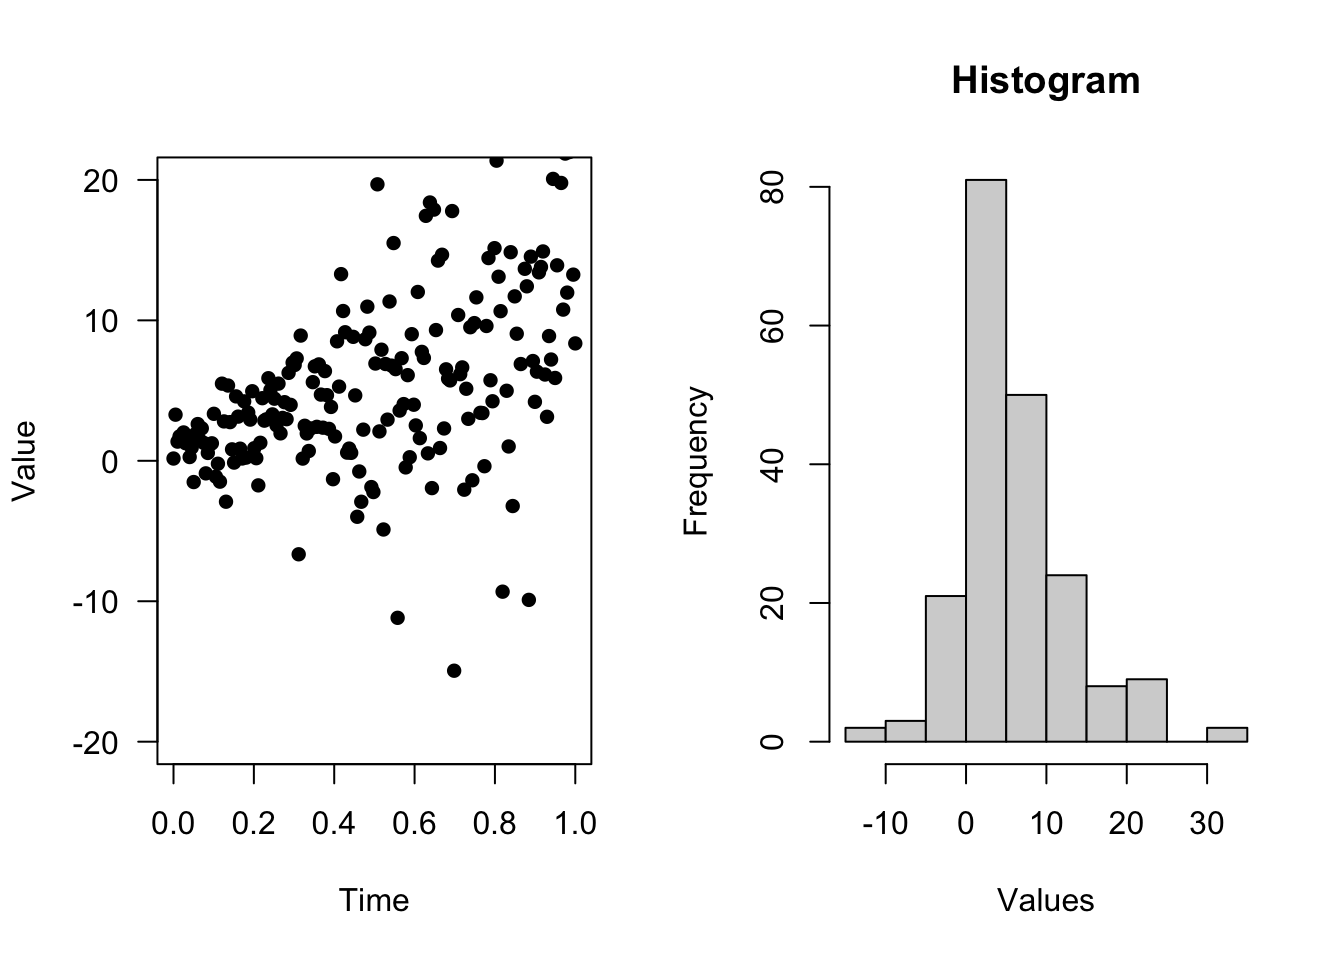
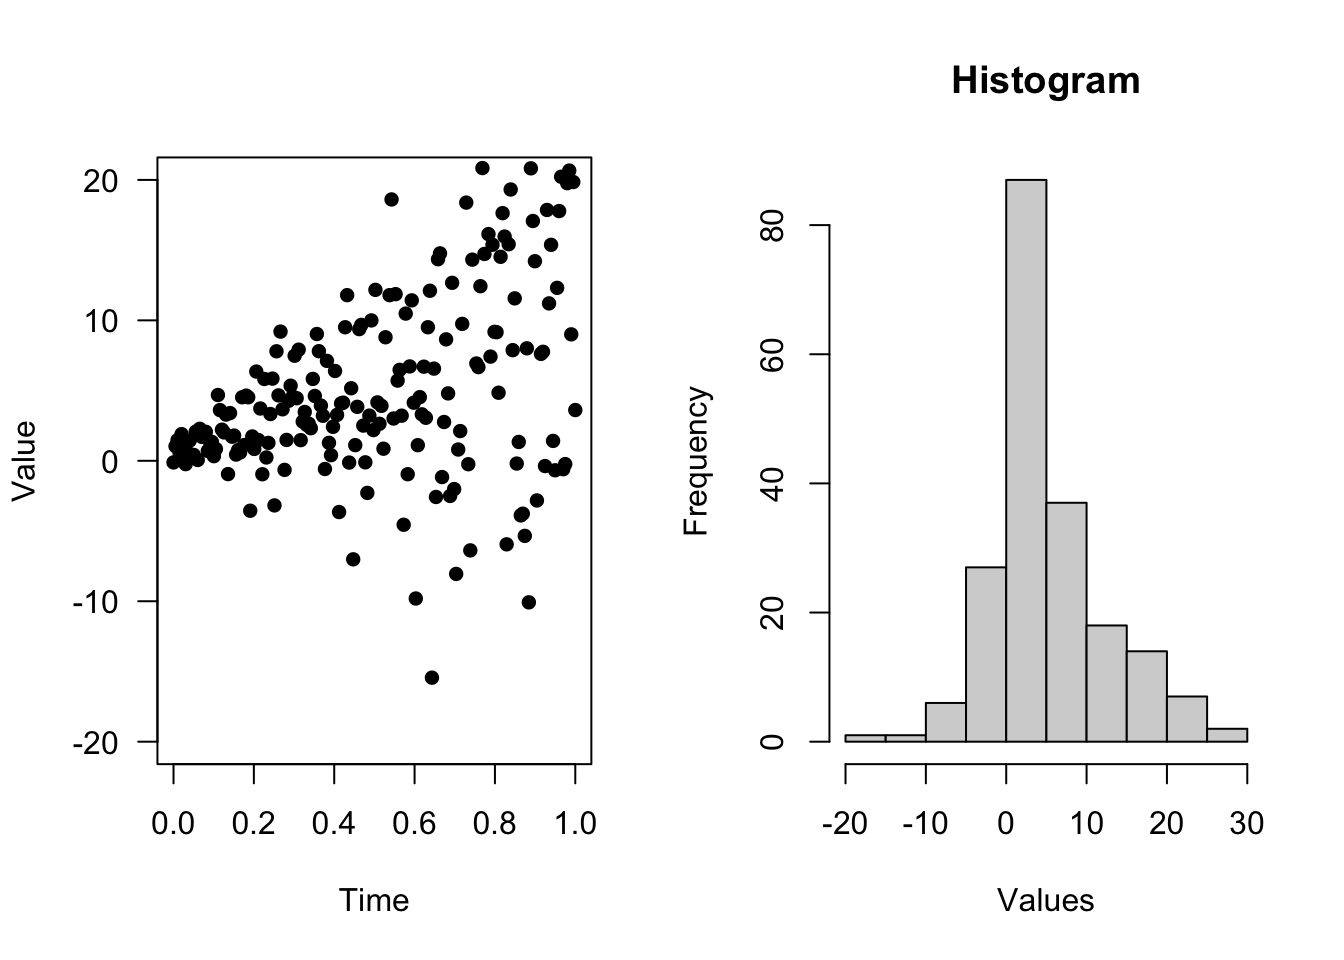
Rebuild before re-submit

diff --git a/docs/reference/new_function2.html b/docs/reference/new_function2.html
@@ -167,7 +167,7 @@
     <tr>
       <th>quote_type</th>
       <td><p>character, whether <code>body</code> is unquoted, quoted,
-or a <code><a href='https://rlang.r-lib.org/reference/nse-defuse.html'>quo</a></code> object</p></td>
+or a 'quo' object (from 'rlang' package)</p></td>
     </tr>
     <tr>
       <th>quasi_env</th>
@@ -193,7 +193,7 @@ For arguments with no default values, or quoted defaults, use
 function like <code>function(a){...}</code>. See examples for more details.</p>
     <h2 class="hasAnchor" id="see-also"><a class="anchor" href="#see-also"></a>See also</h2>
 
-    <div class='dont-index'><p><code><a href='https://rlang.r-lib.org/reference/nse-defuse.html'>quo</a></code>, <code><a href='https://rlang.r-lib.org/reference/new_function.html'>new_function</a></code></p></div>
+    <div class='dont-index'><p><code><a href='https://rlang.r-lib.org/reference/new_function.html'>new_function</a></code></p></div>
 
     <h2 class="hasAnchor" id="examples"><a class="anchor" href="#examples"></a>Examples</h2>
     <pre class="examples"><div class='input'>
@@ -210,7 +210,7 @@ function like <code>function(a){...}</code>. See examples for more details.</p>
 #&gt; {
 #&gt;     print(a + 1:10)
 #&gt; }
-#&gt; &lt;environment: 0x7fd35767dd58&gt;</div><div class='input'>
+#&gt; &lt;environment: 0x7ff8e2ba6110&gt;</div><div class='input'>
 <span class='fu'>f2</span>(<span class='fl'>0</span>)</div><div class='output co'>#&gt;  [1]  1  2  3  4  5  6  7  8  9 10</div><div class='input'>
 <span class='no'>x</span> <span class='kw'>&lt;-</span> <span class='fl'>20</span>:<span class='fl'>23</span>
 <span class='fu'>f2</span>(<span class='fl'>0</span>)  <span class='co'># result doesn't change as f2 doesn't depend on x anymore</span></div><div class='output co'>#&gt;  [1]  1  2  3  4  5  6  7  8  9 10</div><div class='input'>
@@ -222,20 +222,20 @@ function like <code>function(a){...}</code>. See examples for more details.</p>
 <span class='fu'>new_function2</span>(<span class='fu'><a href='https://rdrr.io/r/base/list.html'>list</a></span>(<span class='kw'>a</span> <span class='kw'>=</span> <span class='no'>default</span>))   <span class='co'># function (a = 123){}</span></div><div class='output co'>#&gt; function (a = 123) 
 #&gt; {
 #&gt; }
-#&gt; &lt;environment: 0x7fd359950fe8&gt;</div><div class='input'>
+#&gt; &lt;environment: 0x7ff8e5d57b58&gt;</div><div class='input'>
 <span class='co'># default with values unevaluated</span>
 <span class='fu'>new_function2</span>(<span class='fu'><a href='https://rdrr.io/r/base/list.html'>list</a></span>(<span class='kw'>a</span> <span class='kw'>=</span> <span class='fu'><a href='https://rdrr.io/r/base/substitute.html'>quote</a></span>(<span class='no'>default</span>)))   <span class='co'># function (a = default){}</span></div><div class='output co'>#&gt; function (a = default) 
 #&gt; {
 #&gt; }
-#&gt; &lt;environment: 0x7fd35948e2b0&gt;</div><div class='input'><span class='fu'>new_function2</span>(<span class='fu'><a href='https://rdrr.io/r/base/list.html'>alist</a></span>(<span class='kw'>a</span> <span class='kw'>=</span> <span class='no'>default</span>))</div><div class='output co'>#&gt; function (a = default) 
+#&gt; &lt;environment: 0x7ff8f5bf3ee8&gt;</div><div class='input'><span class='fu'>new_function2</span>(<span class='fu'><a href='https://rdrr.io/r/base/list.html'>alist</a></span>(<span class='kw'>a</span> <span class='kw'>=</span> <span class='no'>default</span>))</div><div class='output co'>#&gt; function (a = default) 
 #&gt; {
 #&gt; }
-#&gt; &lt;environment: 0x7fd3599191a8&gt;</div><div class='input'>
+#&gt; &lt;environment: 0x7ff8f469bcf0&gt;</div><div class='input'>
 <span class='co'># missing default</span>
 <span class='fu'>new_function2</span>(<span class='fu'><a href='https://rdrr.io/r/base/list.html'>alist</a></span>(<span class='kw'>a</span> <span class='kw'>=</span> ))    <span class='co'># function (a){}</span></div><div class='output co'>#&gt; function (a) 
 #&gt; {
 #&gt; }
-#&gt; &lt;environment: 0x7fd3593e0e38&gt;</div><div class='input'>
+#&gt; &lt;environment: 0x7ff8f7e97bf0&gt;</div><div class='input'>
 
 </div></pre>
   </div>

diff --git a/docs/reference/shared_finalizer.html b/docs/reference/shared_finalizer.html
@@ -306,16 +306,16 @@ instances, <code>fin</code> accepts no argument.</p>
 <span class='no'>e2</span>$<span class='no'>valid</span> <span class='kw'>&lt;-</span> <span class='kw'>function</span>(){ <span class='no'>file_exists</span> }
 
 <span class='fu'><a href='https://rdrr.io/r/base/reg.finalizer.html'>reg.finalizer</a></span>(<span class='no'>e1</span>, <span class='no'>clear_files</span>)</div><div class='output co'>#&gt; NULL</div><div class='input'><span class='fu'><a href='https://rdrr.io/r/base/reg.finalizer.html'>reg.finalizer</a></span>(<span class='no'>e2</span>, <span class='no'>clear_files</span>)</div><div class='output co'>#&gt; NULL</div><div class='input'><span class='fu'><a href='https://rdrr.io/r/base/gc.html'>gc</a></span>()</div><div class='output co'>#&gt;           used (Mb) gc trigger (Mb) limit (Mb) max used  (Mb)
-#&gt; Ncells 1031277 55.1    1764608 94.3         NA  1764608  94.3
-#&gt; Vcells 1955577 15.0   11861156 90.5      16384 23166197 176.8</div><div class='input'><span class='no'>file_exists</span></div><div class='output co'>#&gt; [1] TRUE</div><div class='input'>
+#&gt; Ncells 1037231 55.4    1768024 94.5         NA  1768024  94.5
+#&gt; Vcells 1965439 15.0   11869341 90.6      16384 23182273 176.9</div><div class='input'><span class='no'>file_exists</span></div><div class='output co'>#&gt; [1] TRUE</div><div class='input'>
 <span class='co'># removing e1 will invalidate e2</span>
 <span class='fu'><a href='https://rdrr.io/r/base/rm.html'>rm</a></span>(<span class='no'>e1</span>); <span class='fu'><a href='https://rdrr.io/r/base/gc.html'>gc</a></span>()</div><div class='output co'>#&gt; [1] "Clean some shared files"</div><div class='output co'>#&gt;           used (Mb) gc trigger (Mb) limit (Mb) max used  (Mb)
-#&gt; Ncells 1031283 55.1    1764608 94.3         NA  1764608  94.3
-#&gt; Vcells 1955621 15.0   11861156 90.5      16384 23166197 176.8</div><div class='input'><span class='no'>e2</span>$<span class='fu'>valid</span>()    <span class='co'># FALSE</span></div><div class='output co'>#&gt; [1] FALSE</div><div class='input'>
+#&gt; Ncells 1037237 55.4    1768024 94.5         NA  1768024  94.5
+#&gt; Vcells 1965483 15.0   11869341 90.6      16384 23182273 176.9</div><div class='input'><span class='no'>e2</span>$<span class='fu'>valid</span>()    <span class='co'># FALSE</span></div><div class='output co'>#&gt; [1] FALSE</div><div class='input'>
 <span class='co'># Clean-ups</span>
 <span class='fu'><a href='https://rdrr.io/r/base/rm.html'>rm</a></span>(<span class='no'>e2</span>); <span class='fu'><a href='https://rdrr.io/r/base/gc.html'>gc</a></span>()</div><div class='output co'>#&gt; [1] "Clean some shared files"</div><div class='output co'>#&gt;           used (Mb) gc trigger (Mb) limit (Mb) max used  (Mb)
-#&gt; Ncells 1031304 55.1    1764608 94.3         NA  1764608  94.3
-#&gt; Vcells 1955635 15.0   11861156 90.5      16384 23166197 176.8</div><div class='input'>
+#&gt; Ncells 1037258 55.4    1768024 94.5         NA  1768024  94.5
+#&gt; Vcells 1965497 15.0   11869341 90.6      16384 23182273 176.9</div><div class='input'>
 </div></pre>
   </div>
   <div class="col-md-3 hidden-xs hidden-sm" id="pkgdown-sidebar">

diff --git a/docs/reference/collapse.html b/docs/reference/collapse.html
@@ -196,8 +196,8 @@ collapsing dimensions</p>
   }
 )</div><div class='output co'>#&gt; Unit: microseconds
 #&gt;     expr     min      lq    mean  median      uq     max neval
-#&gt;   result 573.018 573.018 573.018 573.018 573.018 573.018     1
-#&gt;  compare 198.216 198.216 198.216 198.216 198.216 198.216     1</div><div class='input'>
+#&gt;   result 630.978 630.978 630.978 630.978 630.978 630.978     1
+#&gt;  compare 221.371 221.371 221.371 221.371 221.371 221.371     1</div><div class='input'>
 <span class='co'># large data big difference</span>
 <span class='no'>x</span> <span class='kw'>=</span> <span class='fu'><a href='https://rdrr.io/r/base/array.html'>array</a></span>(<span class='fu'><a href='https://rdrr.io/r/stats/Normal.html'>rnorm</a></span>(<span class='fu'><a href='https://rdrr.io/r/base/prod.html'>prod</a></span>(<span class='fl'>300</span>,<span class='fl'>200</span>,<span class='fl'>105</span>)), <span class='fu'><a href='https://rdrr.io/r/base/c.html'>c</a></span>(<span class='fl'>300</span>,<span class='fl'>200</span>,<span class='fl'>105</span>,<span class='fl'>1</span>))
 <span class='kw pkg'>microbenchmark</span><span class='kw ns'>::</span><span class='fu'><a href='https://rdrr.io/pkg/microbenchmark/man/microbenchmark.html'>microbenchmark</a></span>(
@@ -206,9 +206,9 @@ collapsing dimensions</p>
   <span class='kw'>times</span> <span class='kw'>=</span> <span class='fl'>1L</span> , <span class='kw'>check</span> <span class='kw'>=</span> <span class='kw'>function</span>(<span class='no'>v</span>){
     <span class='fu'><a href='https://rdrr.io/r/base/Extremes.html'>max</a></span>(<span class='fu'><a href='https://rdrr.io/r/base/MathFun.html'>abs</a></span>(<span class='fu'><a href='https://rdrr.io/r/base/range.html'>range</a></span>(<span class='fu'><a href='https://rdrr.io/r/base/do.call.html'>do.call</a></span>(<span class='st'>'-'</span>, <span class='no'>v</span>)))) <span class='kw'>&lt;</span> <span class='fl'>1e-10</span>
   })</div><div class='output co'>#&gt; Unit: milliseconds
-#&gt;     expr      min       lq     mean   median       uq      max neval
-#&gt;   result 247.3830 247.3830 247.3830 247.3830 247.3830 247.3830     1
-#&gt;  compare 345.9405 345.9405 345.9405 345.9405 345.9405 345.9405     1</div><div class='input'>
+#&gt;     expr       min        lq      mean    median        uq       max neval
+#&gt;   result  48.01828  48.01828  48.01828  48.01828  48.01828  48.01828     1
+#&gt;  compare 182.13679 182.13679 182.13679 182.13679 182.13679 182.13679     1</div><div class='input'>
 </div></pre>
   </div>
   <div class="col-md-3 hidden-xs hidden-sm" id="pkgdown-sidebar">

diff --git a/docs/reference/mask_function2.html b/docs/reference/mask_function2.html
@@ -175,7 +175,7 @@ environment.</p>
 <span class='fu'>f1</span>()   <span class='co'># 124</span></div><div class='output co'>#&gt; [1] 124</div><div class='input'>
 <span class='no'>f2</span> <span class='kw'>&lt;-</span> <span class='fu'>mask_function2</span>(<span class='no'>f1</span>, <span class='kw'>a</span> <span class='kw'>=</span> <span class='fl'>1</span>)
 <span class='fu'>f2</span>()   <span class='co'># a is masked with value 1, return 2</span></div><div class='output co'>#&gt; [1] 2</div><div class='input'>
-<span class='fu'><a href='https://rdrr.io/r/base/environment.html'>environment</a></span>(<span class='no'>f1</span>)  <span class='co'># global env</span></div><div class='output co'>#&gt; &lt;environment: 0x7fd34734a428&gt;</div><div class='input'><span class='fu'><a href='https://rdrr.io/r/base/environment.html'>environment</a></span>(<span class='no'>f2</span>)  <span class='co'># masked env</span></div><div class='output co'>#&gt; &lt;environment: 0x7fd34670be30&gt;</div><div class='input'>
+<span class='fu'><a href='https://rdrr.io/r/base/environment.html'>environment</a></span>(<span class='no'>f1</span>)  <span class='co'># global env</span></div><div class='output co'>#&gt; &lt;environment: 0x7ff8e6910f58&gt;</div><div class='input'><span class='fu'><a href='https://rdrr.io/r/base/environment.html'>environment</a></span>(<span class='no'>f2</span>)  <span class='co'># masked env</span></div><div class='output co'>#&gt; &lt;environment: 0x7ff8f45ca550&gt;</div><div class='input'>
 <span class='no'>env</span> <span class='kw'>&lt;-</span> <span class='fu'><a href='https://rdrr.io/r/base/environment.html'>environment</a></span>(<span class='no'>f2</span>)
 <span class='fu'><a href='https://rdrr.io/r/base/identical.html'>identical</a></span>(<span class='fu'><a href='https://rdrr.io/r/base/environment.html'>parent.env</a></span>(<span class='no'>env</span>), <span class='fu'><a href='https://rdrr.io/r/base/environment.html'>environment</a></span>(<span class='no'>f1</span>))  <span class='co'># true</span></div><div class='output co'>#&gt; [1] TRUE</div><div class='input'><span class='no'>env</span>$<span class='no'>a</span>  <span class='co'># masked variables: a=1</span></div><div class='output co'>#&gt; [1] 1</div><div class='input'>
 </div></pre>

diff --git a/docs/articles/r_expr_addons.html b/docs/articles/r_expr_addons.html
@@ -132,7 +132,7 @@
 <span class="co">#&gt; $aa</span>
 <span class="co">#&gt; [1] 1</span>
 <span class="co">#&gt;    user  system elapsed </span>
-<span class="co">#&gt;   0.001   0.000   0.000</span></pre></body></html></div>
+<span class="co">#&gt;       0       0       0</span></pre></body></html></div>
 </div>
 <div id="javascript-style-of-creating-functions" class="section level3">
 <h3 class="hasAnchor">
@@ -254,12 +254,12 @@ li.map((el, ii) => {
   ) <span class="kw">%&gt;%</span>
   <span class="fu"><a href="../reference/no_op.html">no_op</a></span>(<span class="no">hist</span>, <span class="kw">xlab</span> <span class="kw">=</span> <span class="st">'Values'</span>, <span class="kw">main</span> <span class="kw">=</span> <span class="st">'Histogram'</span>) <span class="kw">-&gt;</span>
   <span class="no">result</span>
-<span class="co">#&gt;    Min. 1st Qu.  Median    Mean 3rd Qu.    Max. </span>
-<span class="co">#&gt; -14.946   1.332   4.441   5.870   9.024  34.465</span></pre></body></html></div>
+<span class="co">#&gt;     Min.  1st Qu.   Median     Mean  3rd Qu.     Max. </span>
+<span class="co">#&gt; -15.4416   0.8575   3.6121   5.3036   9.0595  27.7989</span></pre></body></html></div>
 <p><img src="r_expr_addons_files/figure-html/unnamed-chunk-15-1.png" width="672"></p>
 <div class="sourceCode" id="cb15"><html><body><pre class="r">
 <span class="fu"><a href="https://rdrr.io/r/utils/str.html">str</a></span>(<span class="no">result</span>)
-<span class="co">#&gt;  num [1:200] 0.162 3.284 1.366 1.739 1.419 ...</span></pre></body></html></div>
+<span class="co">#&gt;  num [1:200] -0.116 1.038 1.467 0.567 1.898 ...</span></pre></body></html></div>
 </div>
 <div id="do_aggregate" class="section level4">
 <h4 class="hasAnchor">

diff --git a/docs/reference/grapes-equals-greater-than-grapes.html b/docs/reference/grapes-equals-greater-than-grapes.html
@@ -169,7 +169,7 @@ the function body</p>
 #&gt; {
 #&gt;     print(a)
 #&gt; }
-#&gt; &lt;environment: 0x7fd359637210&gt;</div><div class='input'>
+#&gt; &lt;environment: 0x7ff8f5daae68&gt;</div><div class='input'>
 <span class='co'># Informal arguments</span>
 <span class='fu'><a href='https://rdrr.io/r/base/list.html'>list</a></span>(<span class='kw'>a</span><span class='kw'>=</span>) <span class='kw'>%=&gt;%</span> {
   <span class='fu'><a href='https://rdrr.io/r/base/print.html'>print</a></span>(<span class='no'>a</span>)
@@ -177,7 +177,7 @@ the function body</p>
 #&gt; {
 #&gt;     print(a)
 #&gt; }
-#&gt; &lt;environment: 0x7fd359637210&gt;</div><div class='input'>
+#&gt; &lt;environment: 0x7ff8f5daae68&gt;</div><div class='input'>
 <span class='co'># Multiple inputs</span>
 <span class='fu'><a href='https://rdrr.io/r/base/c.html'>c</a></span>(<span class='no'>a</span>, <span class='kw'>b</span> <span class='kw'>=</span> <span class='fl'>2</span>, <span class='no'>...</span>) <span class='kw'>%=&gt;%</span> {
   <span class='fu'><a href='https://rdrr.io/r/base/print.html'>print</a></span>(<span class='fu'><a href='https://rdrr.io/r/base/c.html'>c</a></span>(<span class='no'>a</span>, <span class='no'>b</span>, <span class='no'>...</span>))
@@ -185,7 +185,7 @@ the function body</p>
 #&gt; {
 #&gt;     print(c(a, b, ...))
 #&gt; }
-#&gt; &lt;environment: 0x7fd359637210&gt;</div><div class='input'>
+#&gt; &lt;environment: 0x7ff8f5daae68&gt;</div><div class='input'>
 <span class='co'># ----- JavaScript style of forEach -----</span>
 <span class='co'># ### Equivalent JavaScript Code:</span>
 <span class='co'># LETTERS.forEach((el, ii) =&gt; {</span>

diff --git a/docs/reference/time_delta.html b/docs/reference/time_delta.html
@@ -169,7 +169,7 @@
 <span class='fu'><a href='https://rdrr.io/r/base/Sys.sleep.html'>Sys.sleep</a></span>(<span class='fl'>0.3</span>)
 <span class='no'>b</span> <span class='kw'>=</span> <span class='fu'><a href='https://rdrr.io/r/base/Sys.time.html'>Sys.time</a></span>()
 
-<span class='fu'>time_delta</span>(<span class='no'>a</span>, <span class='no'>b</span>) <span class='co'># In seconds, around 0.3</span></div><div class='output co'>#&gt; [1] 0.3064539</div><div class='input'><span class='fu'>time_delta</span>(<span class='no'>a</span>, <span class='no'>b</span>, <span class='st'>'mins'</span>) <span class='co'># in minutes, around 0.005</span></div><div class='output co'>#&gt; [1] 0.005107566</div><div class='input'>
+<span class='fu'>time_delta</span>(<span class='no'>a</span>, <span class='no'>b</span>) <span class='co'># In seconds, around 0.3</span></div><div class='output co'>#&gt; [1] 0.306694</div><div class='input'><span class='fu'>time_delta</span>(<span class='no'>a</span>, <span class='no'>b</span>, <span class='st'>'mins'</span>) <span class='co'># in minutes, around 0.005</span></div><div class='output co'>#&gt; [1] 0.005111567</div><div class='input'>
 </div></pre>
   </div>
   <div class="col-md-3 hidden-xs hidden-sm" id="pkgdown-sidebar">

diff --git a/docs/reference/forelse.html b/docs/reference/forelse.html
@@ -235,10 +235,10 @@ or the result of <code>ALT_FUN()</code>.</p>
 #&gt;                                                                                          {     forelse(1:10, FUN, "wow") }
 #&gt;  {     y &lt;- unlist(lapply(1:10, FUN))     if (length(y)) {         y &lt;- y[[1]]     }     else {         y &lt;- "wow"     } }
 #&gt;           {     y &lt;- NULL     for (x in 1:10) {         y &lt;- FUN(x)     }     if (is.null(y)) {         y &lt;- "wow"     } }
-#&gt;       min        lq      mean    median        uq       max neval
-#&gt;   22.3853  22.52004  22.67121  22.65478  22.81417  22.97355     3
-#&gt;  108.9374 109.06907 109.86938 109.20078 110.33539 111.47001     3
-#&gt;  110.9464 110.94996 111.45190 110.95354 111.70466 112.45578     3</div><div class='input'>
+#&gt;        min        lq      mean    median        uq       max neval
+#&gt;   20.49884  21.44478  21.98924  22.39071  22.73444  23.07816     3
+#&gt;  103.00608 106.27924 107.81948 109.55241 110.22617 110.89994     3
+#&gt;  105.98729 106.55771 108.44845 107.12813 109.67902 112.22992     3</div><div class='input'>
 
 </div></pre>
   </div>

diff --git a/docs/reference/lock.html b/docs/reference/lock.html
@@ -40,7 +40,7 @@
 
 
 <meta property="og:title" content="Create or Unlock a Lock — lock" />
-<meta property="og:description" content="A wrapper for lock, but user can
+<meta property="og:description" content="A wrapper for 'synchronicity' package, but user can
 interrupt the lock procedure anytime, and don't have to worry about
 whether the lock exists or not." />
 
@@ -140,7 +140,7 @@ whether the lock exists or not." />
     </div>
 
     <div class="ref-description">
-    <p>A wrapper for <code><a href='https://rdrr.io/pkg/synchronicity/man/lock-and-unlock-methods.html'>lock</a></code>, but user can
+    <p>A wrapper for 'synchronicity' package, but user can
 interrupt the lock procedure anytime, and don't have to worry about
 whether the lock exists or not.</p>
     </div>

diff --git a/docs/news/index.html b/docs/news/index.html
@@ -143,7 +143,7 @@
 <h2 class="hasAnchor">
 <a href="#major-changes" class="anchor"></a>Major Changes</h2>
 <ul>
-<li>Removed dependency on <code>crayon</code>
+<li>Removed dependency on <code>crayon</code>, added <code>yaml</code>
 </li>
 <li>Added <code>shared_finalizer</code> to finalize multiple objects only when last one is garbage collected</li>
 <li>Removed <code>autoconf</code> script and <code>Makevars</code> as no special flags are needed</li>

diff --git a/docs/reference/lapply_async2.html b/docs/reference/lapply_async2.html
@@ -176,8 +176,8 @@
     </tr>
     <tr>
       <th>future.chunk.size</th>
-      <td><p>see also
-<code><a href='https://rdrr.io/pkg/future.apply/man/future_lapply.html'>future_eapply</a></code>. If you want the callbacks
+      <td><p>see also <code>future_lapply</code>.
+If you want the callbacks
 to be called immediately after each loop, then set it to <code>1</code>,
 which is not optimal but the only way right now.</p></td>
     </tr>

diff --git a/docs/articles/utility_functions.html b/docs/articles/utility_functions.html
@@ -171,7 +171,7 @@
 <span class="co">#&gt; [1] 17179869184</span>
 <span class="co">#&gt; </span>
 <span class="co">#&gt; $free</span>
-<span class="co">#&gt; [1] 17137699728</span></pre></body></html></div>
+<span class="co">#&gt; [1] 17137552648</span></pre></body></html></div>
 </div>
 <div id="interactive-questions" class="section level4">
 <h4 class="hasAnchor">
